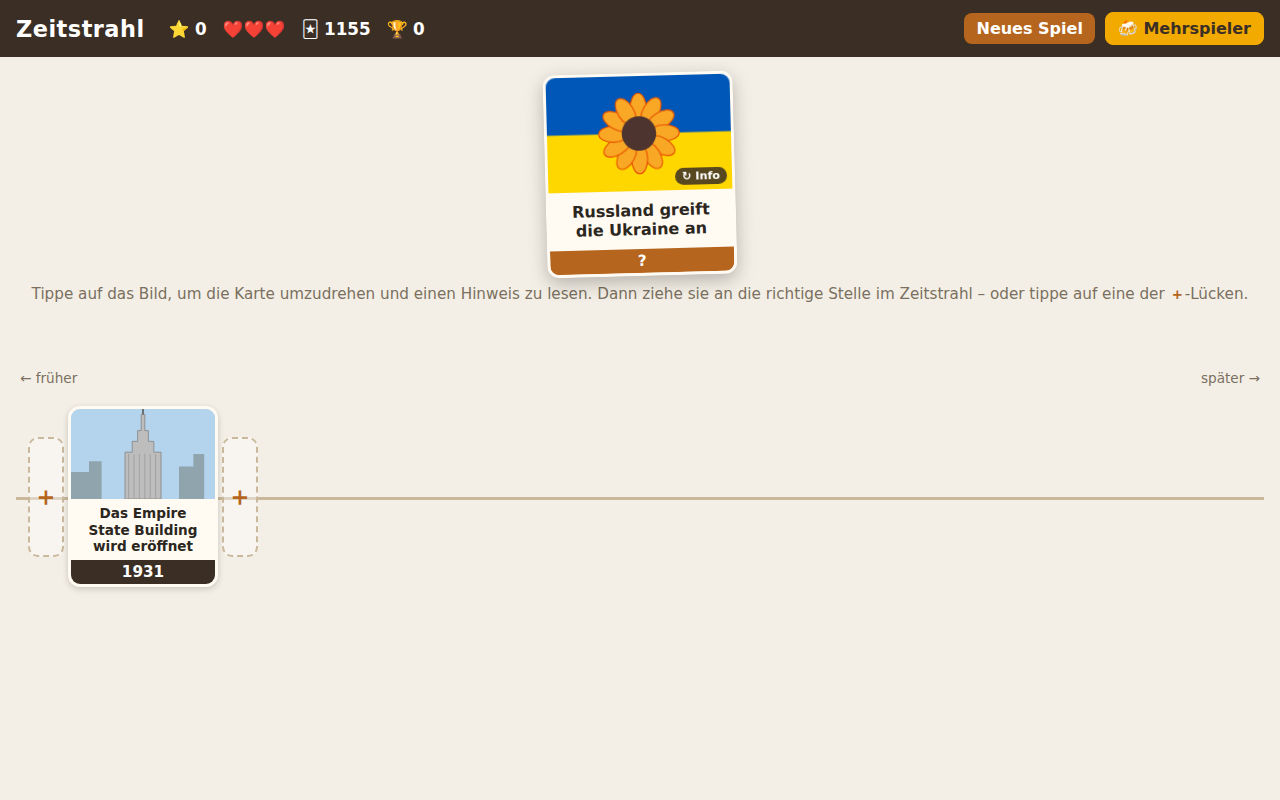
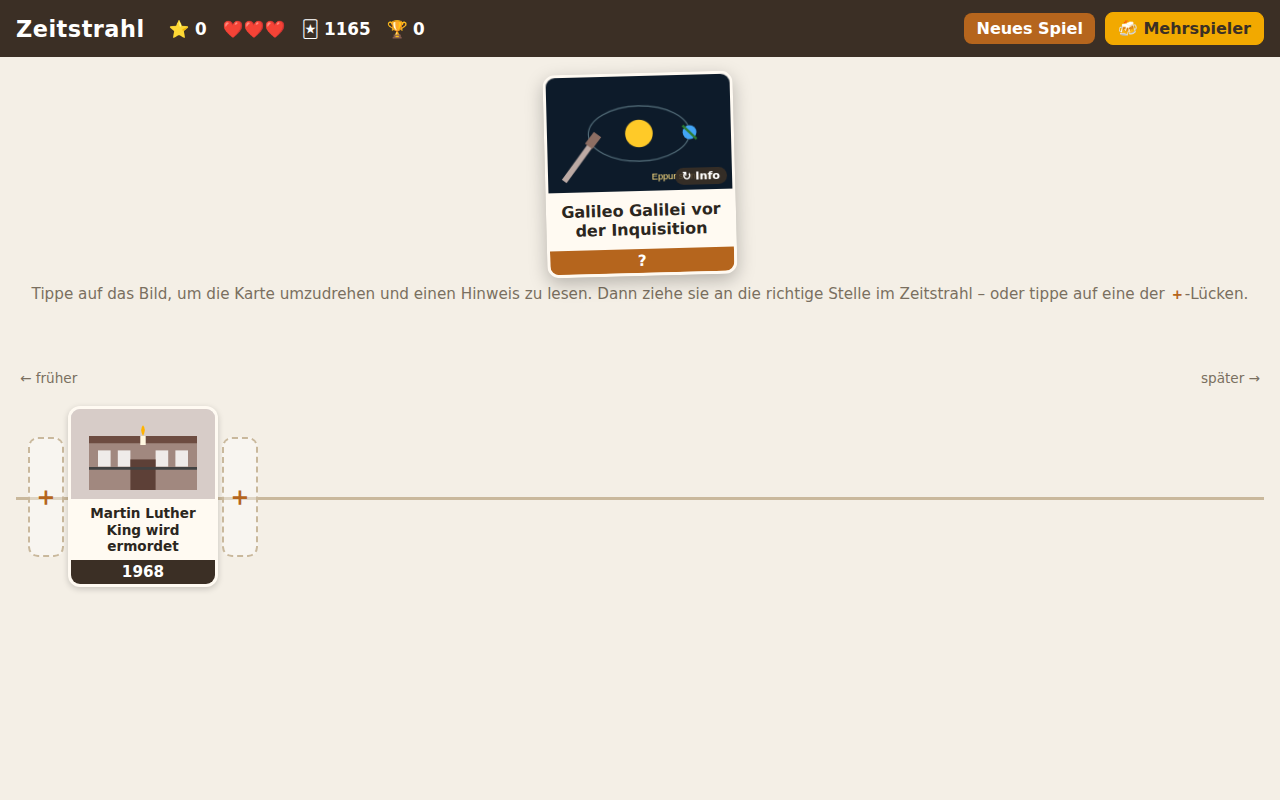
Add 10 events from 2024
Claude-Session: https://claude.ai/code/session_01Nr3EjojewoDudnqC8Cy7nP

Changed region(s): [[0.4062, 0.0938, 0.5938, 0.3125], [0.0312, 0.5, 0.1875, 0.7188]]

diff --git a/events.js b/events.js
@@ -1098,6 +1098,16 @@ const EVENTS = [
   { id: "beckenbauer", title: "Franz Beckenbauer stirbt", year: 2024, image: "img/beckenbauer.svg", fact: "Der „Kaiser“ wurde als Spieler und als Trainer Weltmeister." },
   { id: "mbappe_real", title: "Mbappé wechselt ablösefrei zu Real Madrid", year: 2024, image: "img/mbappe_real.svg", fact: "Nach sieben Jahren bei Paris Saint-Germain kam der französische Superstar ohne Ablöse – sein Vertrag war ausgelaufen.", hint: "Ein französischer Fußball-Superstar wechselt nach Vertragsende ohne Ablöse nach Madrid." },
   { id: "jw_aura", title: "„Aura“ wird Jugendwort des Jahres", year: 2024, image: "img/jw_aura.svg", fact: "Beschreibt die Ausstrahlung einer Person – man kann „Aura-Punkte“ gewinnen oder verlieren.", hint: "Ein Wort für die Ausstrahlung einer Person – inklusive „Punkten“ – wird Jugendwort des Jahres." },
+  { id: "trump_wahl2024", title: "Trump gewinnt die US-Präsidentschaftswahl gegen Kamala Harris", year: 2024, image: "img/trump_wahl2024.svg", fact: "Vier Jahre nach seiner Niederlage gewann Trump alle umkämpften Swing States – und kehrte ins Weiße Haus zurück.", hint: "Ein ehemaliger US-Präsident gewinnt die Wahl gegen die amtierende Vizepräsidentin und kehrt ins Amt zurück." },
+  { id: "liam_payne", title: "Liam Payne stirbt", year: 2024, image: "img/liam_payne.svg", fact: "Das frühere One-Direction-Mitglied stürzte in Buenos Aires vom Balkon eines Hotels.", hint: "Ein früheres Mitglied einer weltberühmten britischen Boyband stirbt nach einem Sturz von einem Hotelbalkon." },
+  { id: "valencia", title: "Flutkatastrophe in Valencia", year: 2024, image: "img/valencia.svg", fact: "Sturzfluten nach extremem Starkregen töteten in der spanischen Region über 200 Menschen.", hint: "Nach extremem Starkregen reißen Sturzfluten in einer spanischen Region Autos und Häuser mit." },
+  { id: "magdeburg", title: "Anschlag auf den Weihnachtsmarkt in Magdeburg", year: 2024, image: "img/magdeburg.svg", fact: "Ein Mann raste mit einem Auto über den Markt – sechs Menschen starben, Hunderte wurden verletzt.", hint: "Kurz vor Weihnachten rast ein Auto über einen Weihnachtsmarkt in Sachsen-Anhalt." },
+  { id: "kroos_ende", title: "Toni Kroos beendet seine Karriere", year: 2024, image: "img/kroos_ende.svg", fact: "Nach dem Champions-League-Sieg mit Real Madrid und der Heim-EM hörte der Weltmeister auf dem Höhepunkt auf.", hint: "Ein deutscher Weltmeister im Mittelfeld beendet nach der Heim-EM auf dem Höhepunkt seine Karriere." },
+  { id: "spanien_em", title: "Spanien wird zum vierten Mal Europameister", year: 2024, image: "img/spanien_em.svg", fact: "Im Finale in Berlin schlug Spanien England 2:1 – der 17-jährige Lamine Yamal wurde zum Star.", hint: "Eine Mannschaft mit einem 17-jährigen Wunderkind gewinnt in Berlin das EM-Finale gegen England." },
+  { id: "nawalny", title: "Alexej Nawalny stirbt in russischer Haft", year: 2024, image: "img/nawalny.svg", fact: "Der bekannteste Kritiker Putins starb in einem Straflager nördlich des Polarkreises.", hint: "Der bekannteste Gegner des russischen Präsidenten stirbt in einem Straflager in der Arktis." },
+  { id: "notredame_neu", title: "Notre-Dame wird wiedereröffnet", year: 2024, image: "img/notredame_neu.svg", fact: "Gut fünf Jahre nach dem verheerenden Brand wurde die Pariser Kathedrale mit einer Feier wiedereröffnet.", hint: "Die berühmte Pariser Kathedrale öffnet nach dem großen Brand und jahrelanger Restaurierung wieder." },
+  { id: "kate_krebs", title: "Prinzessin Kate macht ihre Krebserkrankung öffentlich", year: 2024, image: "img/kate_krebs.svg", fact: "Nach wochenlangen Spekulationen über ihr Verschwinden erklärte sie in einer Videobotschaft, an Krebs erkrankt zu sein.", hint: "Die Frau des britischen Thronfolgers erklärt in einer Videobotschaft, dass sie an Krebs erkrankt ist." },
+  { id: "pager", title: "Pager-Explosionen im Libanon", year: 2024, image: "img/pager.svg", fact: "Tausende Pager von Hisbollah-Mitgliedern explodierten fast gleichzeitig – Israel wird für die Aktion verantwortlich gemacht.", hint: "Tausende kleine Funkempfänger von Mitgliedern einer Miliz im Libanon explodieren fast gleichzeitig." },
   { id: "papst", title: "Leo XIV. – erster Papst aus den USA", year: 2025, image: "img/papst.svg", fact: "Der in Chicago geborene Robert Francis Prevost wurde im Mai 2025 zum Papst gewählt.", hint: "Der in Chicago geborene Robert Francis Prevost wird zum Papst gewählt." },
   { id: "merz", title: "Friedrich Merz wird Bundeskanzler", year: 2025, image: "img/merz.svg", fact: "Er wurde erst im zweiten Wahlgang gewählt – das gab es in der Bundesrepublik noch nie." },
   { id: "trump2", title: "Donald Trump beginnt seine zweite Amtszeit", year: 2025, image: "img/trump2.svg", fact: "Am 20. Januar 2025 wurde er als 47. Präsident der USA vereidigt.", hint: "Donald Trump wird als 47. Präsident der USA vereidigt." },
